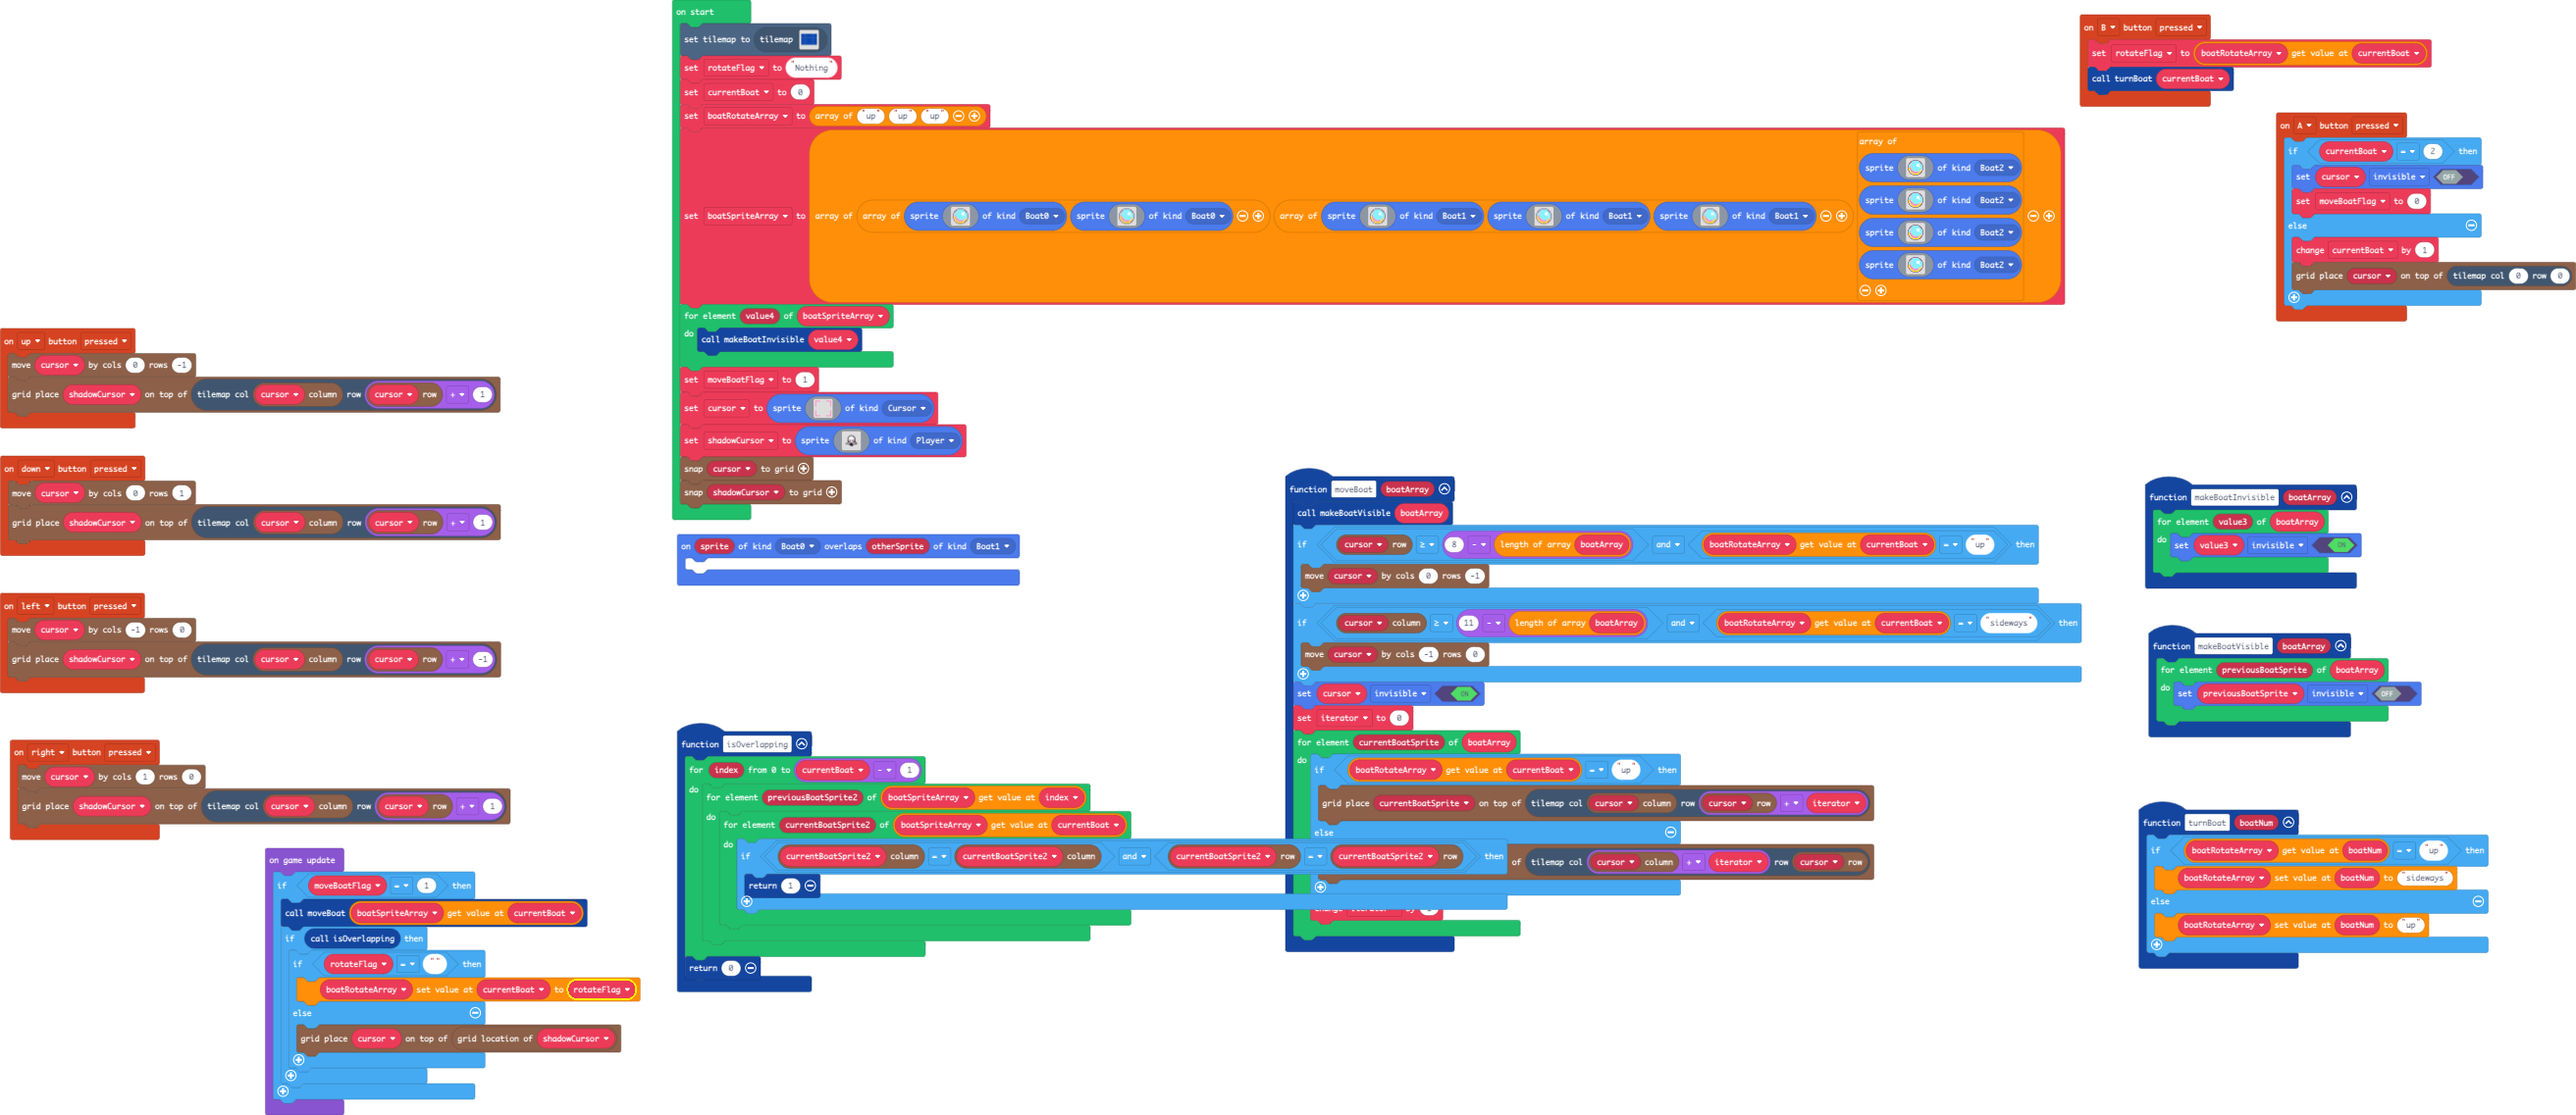
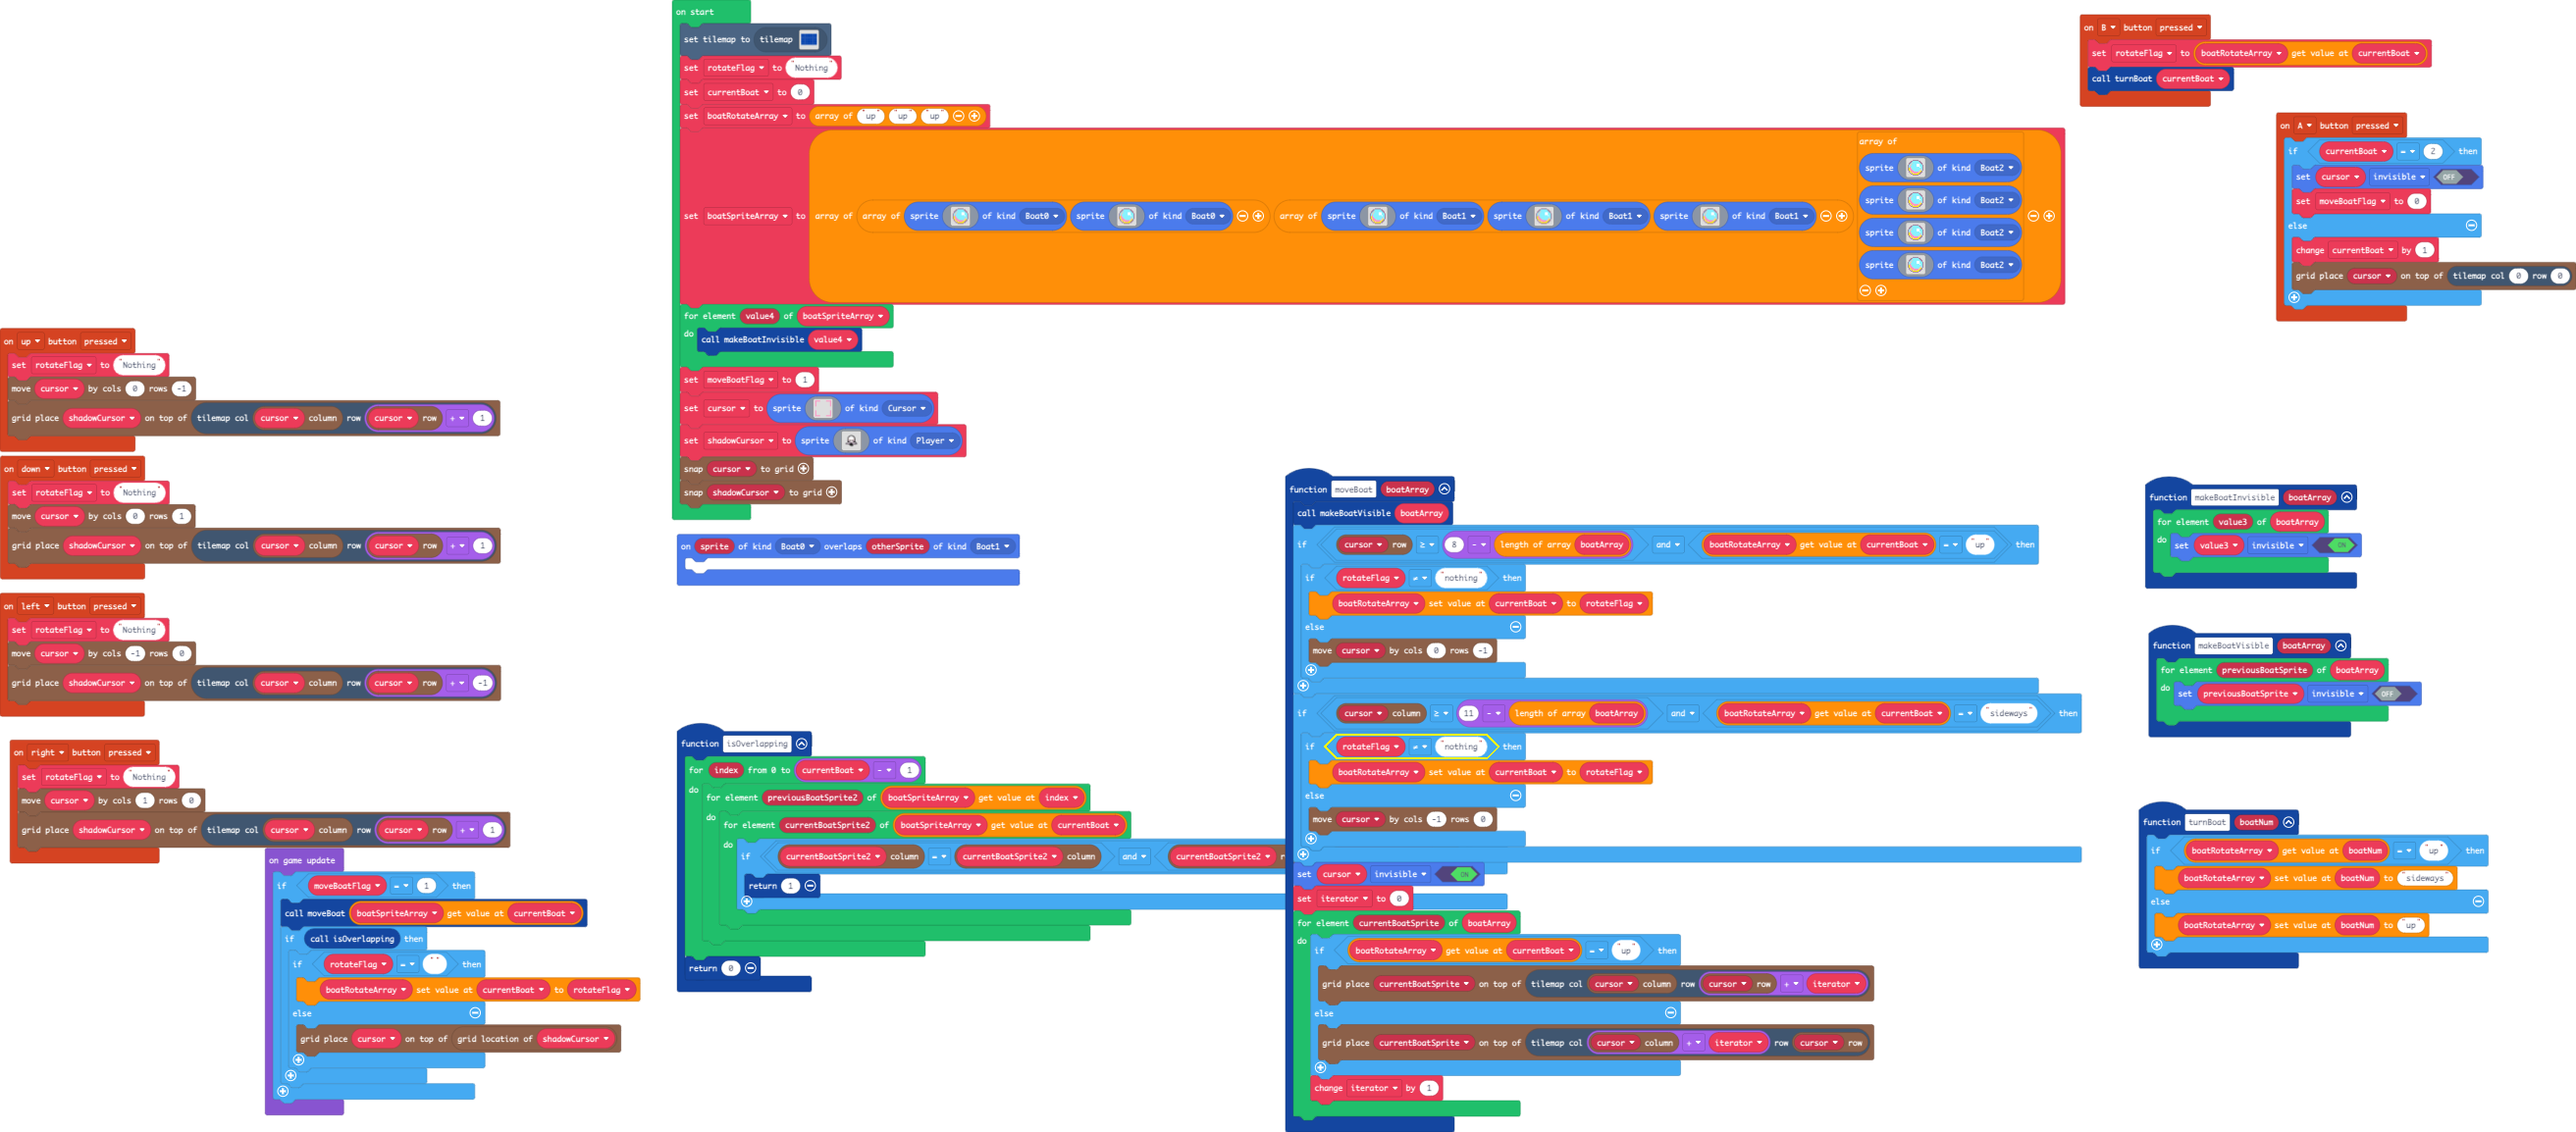
fixed rotate bug (bottom screen)

diff --git a/main.ts b/main.ts
@@ -5,6 +5,7 @@ namespace SpriteKind {
     export const Boat2 = SpriteKind.create()
 }
 controller.up.onEvent(ControllerButtonEvent.Pressed, function () {
+    rotateFlag = "Nothing"
     grid.move(cursor, 0, -1)
     grid.place(shadowCursor, tiles.getTileLocation(grid.spriteCol(cursor), grid.spriteRow(cursor) + 1))
 })
@@ -30,20 +31,30 @@ controller.A.onEvent(ControllerButtonEvent.Pressed, function () {
     }
 })
 controller.left.onEvent(ControllerButtonEvent.Pressed, function () {
+    rotateFlag = "Nothing"
     grid.move(cursor, -1, 0)
     grid.place(shadowCursor, tiles.getTileLocation(grid.spriteCol(cursor), grid.spriteRow(cursor) + -1))
 })
 controller.right.onEvent(ControllerButtonEvent.Pressed, function () {
+    rotateFlag = "Nothing"
     grid.move(cursor, 1, 0)
     grid.place(shadowCursor, tiles.getTileLocation(grid.spriteCol(cursor), grid.spriteRow(cursor) + 1))
 })
 function moveBoat (boatArray: any[]) {
     makeBoatVisible(boatArray)
     if (grid.spriteRow(cursor) >= 8 - boatArray.length && boatRotateArray[currentBoat] == "up") {
-        grid.move(cursor, 0, -1)
+        if (rotateFlag != "nothing") {
+            boatRotateArray[currentBoat] = rotateFlag
+        } else {
+            grid.move(cursor, 0, -1)
+        }
     }
     if (grid.spriteCol(cursor) >= 11 - boatArray.length && boatRotateArray[currentBoat] == "sideways") {
-        grid.move(cursor, -1, 0)
+        if (rotateFlag != "nothing") {
+            boatRotateArray[currentBoat] = rotateFlag
+        } else {
+            grid.move(cursor, -1, 0)
+        }
     }
     cursor.setFlag(SpriteFlag.Invisible, true)
     iterator = 0
@@ -57,6 +68,7 @@ function moveBoat (boatArray: any[]) {
     }
 }
 controller.down.onEvent(ControllerButtonEvent.Pressed, function () {
+    rotateFlag = "Nothing"
     grid.move(cursor, 0, 1)
     grid.place(shadowCursor, tiles.getTileLocation(grid.spriteCol(cursor), grid.spriteRow(cursor) + 1))
 })
